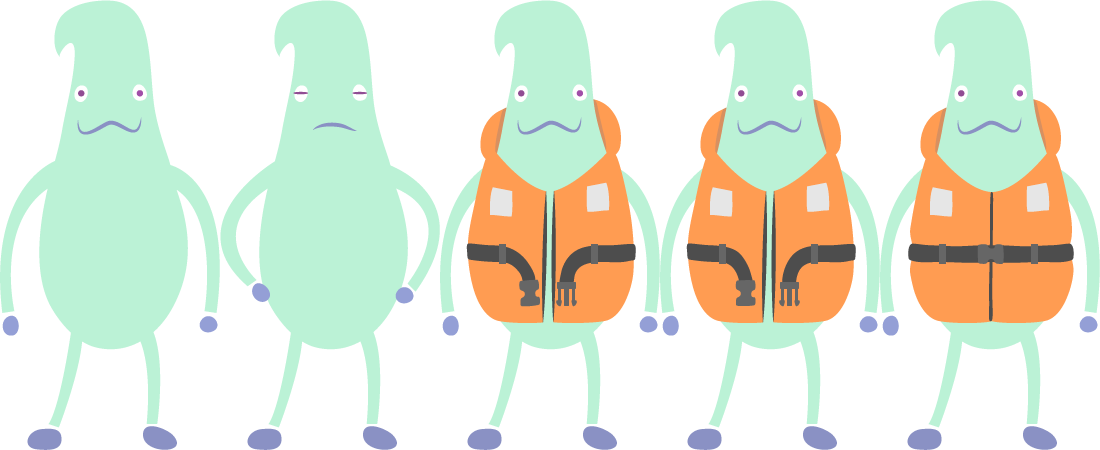
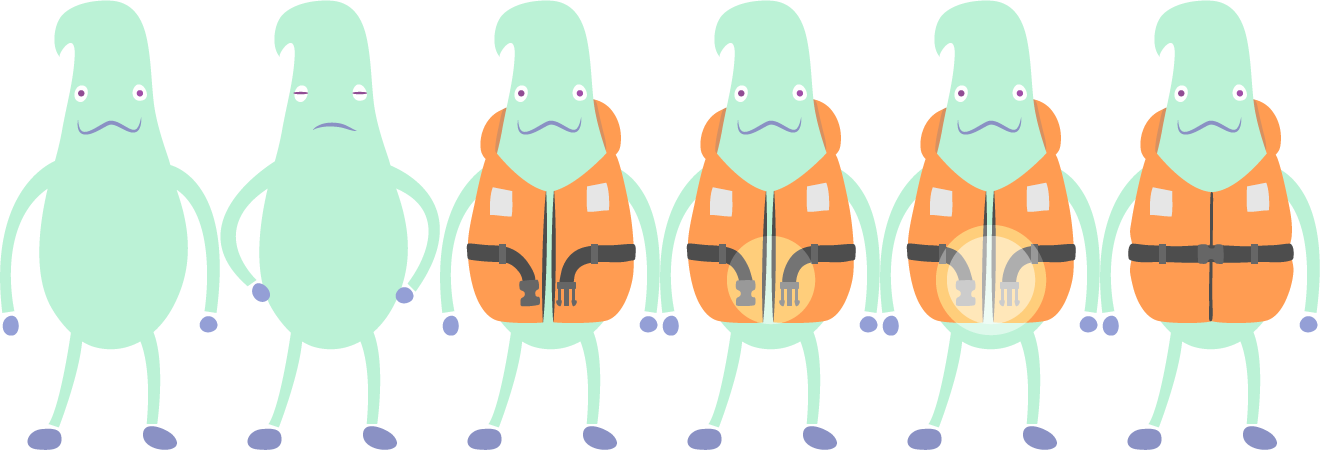
lifejacket: animation notification

diff --git a/game/states/lifejacket.js b/game/states/lifejacket.js
@@ -6,12 +6,16 @@ var beachAlienGroup;
 var lifejacketGroup;
 var score;
 var lastScore;
+var animationCounter;
+var startCounter;
 
   function Lifejacket() {}
   Lifejacket.prototype = {
     preload: function() {},
     create: function() {
       score = 0;
+      animationCounter  = 0;
+      startCounter = false;
       lastScore = 0;
       this.game.physics.startSystem(Phaser.Physics.ARCADE);
       this.beachBg = this.game.add.sprite(0, 0, 'lifejack_bg');
@@ -59,8 +63,10 @@ var lastScore;
           beachAlienGroup.add(this.beachAlien);
           y = originalY;
 
-           this.beachAlien.inputEnabled = true;
-          this.beachAlien.events.onInputDown.add(this.alienWalks, this.beachAlien);
+         this.beachAlien.inputEnabled = true;
+         this.beachAlien.events.onInputDown.add(this.alienWalks, this.beachAlien);
+
+        this.beachAlien.animations.add(this.beachAlien.name, [3,4]);
       }
     },
       spawnLifejackets: function(x, y) {
@@ -100,25 +106,26 @@ var lastScore;
 
     alienWalks: function(alien){
 
-     if (alien.name == "lifejack_alien1" && alien.frame == 3) {
-              alien.loadTexture('lifejack_alien1',4);
+     if (alien.name == "lifejack_alien1" && alien.frame == 2) {
+              alien.loadTexture('lifejack_alien1',5);
               alien.body.velocity.x = 150;
               score++;
+              animationCounter = 0;
         }
 
-        if (alien.name == "lifejack_alien2" && alien.frame == 3)
+        if (alien.name == "lifejack_alien2" && alien.frame == 2)
         {
-              alien.loadTexture('lifejack_alien2',4);
+              alien.loadTexture('lifejack_alien2',5);
               alien.body.velocity.x = 150;
               score++;
-
+              animationCounter = 0;
         }
-        if (alien.name == "lifejack_alien3" && alien.frame == 3)
+        if (alien.name == "lifejack_alien3" && alien.frame == 2)
         {
-              alien.loadTexture('lifejack_alien3',4);
+              alien.loadTexture('lifejack_alien3',5);
               alien.body.velocity.x = 150;
               score++;
-
+              animationCounter = 0;
         }
 
     },
@@ -127,36 +134,38 @@ var lastScore;
 
         // If lifesaver & alien are matches, destroy lifejacket
 
-        if (alien.name == "lifejack_alien1" && alien.frame != 3 && alien.frame !=  4 && lifejacket.body.y < 280){
+        if (alien.name == "lifejack_alien1" && alien.frame != 2 && lifejacket.body.y < 280){
             alien.loadTexture('lifejack_alien1',1);
 
           if (lifejacket.name == "lifejack_jacket1") {
                 lifejacket.destroy();
-                alien.loadTexture('lifejack_alien1',3);
+                alien.loadTexture('lifejack_alien1',2);
+                startCounter = true;
           }
         }
 
-       if (alien.name == "lifejack_alien2" && alien.frame != 3 && alien.frame !=  4 && lifejacket.body.y < 280){
+       if (alien.name == "lifejack_alien2" && alien.frame != 2 && lifejacket.body.y < 280){
             alien.loadTexture('lifejack_alien2',1);
 
           if (lifejacket.name == "lifejack_jacket2") {
                 lifejacket.destroy();
-                alien.loadTexture('lifejack_alien2',3);
+                alien.loadTexture('lifejack_alien2',2);
+                startCounter = true;
           }
         }
 
-       if (alien.name == "lifejack_alien3" && alien.frame != 3 && alien.frame !=  4 && lifejacket.body.y < 280){
+       if (alien.name == "lifejack_alien3" && alien.frame != 2 && lifejacket.body.y < 280){
             alien.loadTexture('lifejack_alien3',1);
 
           if (lifejacket.name == "lifejack_jacket3") {
                 lifejacket.destroy();
-                alien.loadTexture('lifejack_alien3',3);
+                alien.loadTexture('lifejack_alien3',2);
+                startCounter = true;
           }
         }
     },
 
     update: function() {
-
      beachAlienGroup.forEach(function(beachAlien){
        lifejacketGroup.forEach(function(lifejacket){
 
@@ -183,8 +192,27 @@ var lastScore;
           score++;
         }
 
+    if (startCounter == true ){
+      animationCounter++;
+    }
+
+    if ( animationCounter > 300){
+            this.startAnimation();
+            startCounter = false;
+            animationCounter = 0;
+    }
+
    },
 
+   startAnimation: function(){
+
+     beachAlienGroup.forEach(function(beachAlien){
+      if (beachAlien.frame == 2){
+        beachAlien.play(beachAlien.name, 1, true);
+      }
+    }, this);    
+
+   },
      win: function(){
         this.game.time.events.add(Phaser.Timer.SECOND * 3, this.startWinScreen, this);
      },

diff --git a/game/states/preload.js b/game/states/preload.js
@@ -157,9 +157,9 @@ Preload.prototype = {
     this.load.image('spacerun_ground', 'assets/img/SpaceRun/spacerun_ground.png');
 
     // Lifejacket game assets
-    this.load.spritesheet('lifejack_alien1', 'assets/img/LifeJacket/lifejack_alien1.png', 220, 450, 5);
-    this.load.spritesheet('lifejack_alien2', 'assets/img/LifeJacket/lifejack_alien2.png', 280, 310, 5);
-    this.load.spritesheet('lifejack_alien3', 'assets/img/LifeJacket/lifejack_alien3.png', 210, 360, 5);
+    this.load.spritesheet('lifejack_alien1', 'assets/img/LifeJacket/lifejack_alien1.png', 220, 450, 6);
+    this.load.spritesheet('lifejack_alien2', 'assets/img/LifeJacket/lifejack_alien2.png', 280, 310, 6);
+    this.load.spritesheet('lifejack_alien3', 'assets/img/LifeJacket/lifejack_alien3.png', 210, 360, 6);
     this.load.image('lifejack_jacket1', 'assets/img/LifeJacket/lifejack_jacket1.png');
     this.load.image('lifejack_jacket2', 'assets/img/LifeJacket/lifejack_jacket2.png');
     this.load.image('lifejack_jacket3', 'assets/img/LifeJacket/lifejack_jacket3.png');
